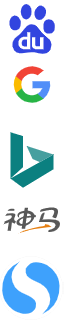
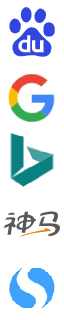
完成切换搜索引擎，并可以保存设置，样式上还需改进

diff --git a/js/app.js b/js/app.js
@@ -23,6 +23,10 @@ $(document).ready(function () {
 		$('html').css('font-size', 100);
 	}
 
+	// ======== 初始化搜索框图标
+	$('#searchE_ico').css("transform", localStorage.getItem("SEARCH_E_ICO"));
+	console.log(localStorage.getItem("SEARCH_E_ICO"));
+
 	// ======== 设置板块
 	$(document).on('touchend', '#setBtn', function () {
 		$('#set').css('transform', 'translateX(0)');
@@ -48,27 +52,41 @@ $(document).ready(function () {
 
 	// 提交搜索内容
 	$(document).submit(function () {
-		var nowTranslateE = localStorage.getItem("TRANSLATE");
+		var nowTranslateE = localStorage.getItem("SEARCH_E");
 		return search(nowTranslateE);
 	})
 
 	// 更换搜索引擎
 	// ###################### 还需改进
-	$(document).on('touchend', '#search_baidu', function(){
-		localStorage.setItem("TRANSLATE", translateE.baidu)
-	})
-	$(document).on('touchend', '#search_google', function(){
-		localStorage.setItem("TRANSLATE", translateE.google)
-	})
-	$(document).on('touchend', '#search_bing', function(){
-		localStorage.setItem("TRANSLATE", translateE.bing)
-	})
-	$(document).on('touchend', '#search_shenma', function(){
-		localStorage.setItem("TRANSLATE", translateE.shenma)
-	})
-	$(document).on('touchend', '#search_sougou', function(){
-		localStorage.setItem("TRANSLATE", translateE.sougou)
-	})
+	$('#searchE_item span').on('touchend', function () {
+		switch (this.id) {
+			case "search_baidu":
+				localStorage.setItem("SEARCH_E", translateE.baidu);
+				localStorage.setItem("SEARCH_E_ICO", "translateY(0)")
+				$('#searchE_ico').css('transform', 'translateY(0)');
+				break;
+			case "search_google":
+				localStorage.setItem("SEARCH_E", translateE.google);
+				localStorage.setItem("SEARCH_E_ICO", "translateY(-0.5rem)")
+				$('#searchE_ico').css('transform', 'translateY(-0.5rem)');
+				break;
+			case "search_bing":
+				localStorage.setItem("SEARCH_E", translateE.bing);
+				localStorage.setItem("SEARCH_E_ICO", "translateY(-1rem)")
+				$('#searchE_ico').css('transform', 'translateY(-1rem)');
+				break;
+			case "search_shenma":
+				localStorage.setItem("SEARCH_E", translateE.shenma);
+				localStorage.setItem("SEARCH_E_ICO", "translateY(-1.5rem)")
+				$('#searchE_ico').css('transform', 'translateY(-1.5rem)');
+				break;
+			case "search_sougou":
+				localStorage.setItem("SEARCH_E", translateE.sougou);
+				localStorage.setItem("SEARCH_E_ICO", "translateY(-2rem)")
+				$('#searchE_ico').css('transform', 'translateY(-2rem)');
+				break;
+		}
 
+	})
 })
 

diff --git a/style/framework.css b/style/framework.css
@@ -176,13 +176,7 @@ a {
 
 .search-e-icon img{
   width: .5rem;
-
-}
-
-.search-e-icon span{
-  font-size: .4rem;
-  color: #a04cf7;
-  display: block;
+  /* transform: translateY(-0.5rem); */
 }
 
 .search {
@@ -347,7 +341,7 @@ a {
 }
 
 #searchE_item :nth-child(2){
-  background-position: 0 -7vw;
+  background-position: 0 -8vw;
 }
 
 #searchE_item :nth-child(3){

diff --git a/index.html b/index.html
@@ -68,8 +68,7 @@
 				<div class="search-fake">
 					<div class="search-fake-frame" id="searchFake">
 						<div class="search-e-icon">
-							<img src="./static/img/searchE.png" alt="">
-							<!-- <span class="iconfont icon-icon5"></span> -->
+							<img id="searchE_ico" src="./static/img/searchE.png" alt="">
 						</div>
 					</div>
 				</div>
